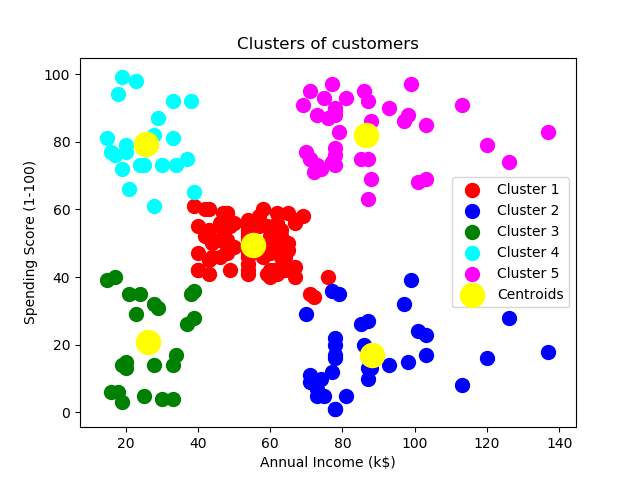
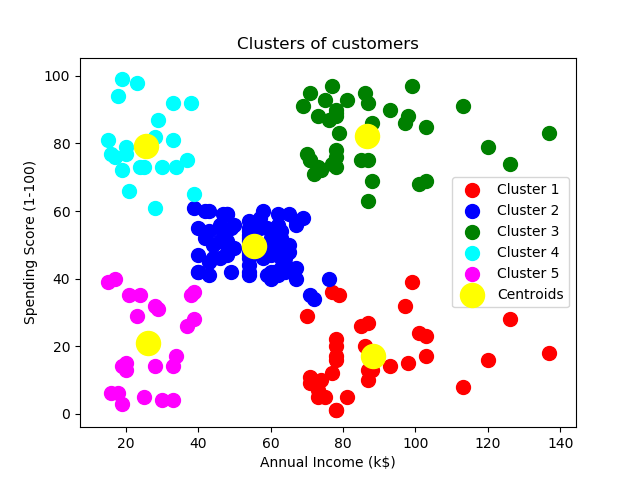
K-Means Clustering

diff --git a/src/4_clustering/1_k_means_clustering/kmeans.py b/src/4_clustering/1_k_means_clustering/kmeans.py
@@ -36,7 +36,7 @@ plt.ylabel('WCSS')
 plt.show()
 
 # Fitting K-Means to the dataset
-kmeans = KMeans(n_clusters = 5, init = 'k-means++', random_state = 42)
+kmeans = KMeans(n_clusters = 5, init = 'k-means++', random_state = 0)
 y_kmeans = kmeans.fit_predict(X)
 print("Fitting K-Means to the dataset:", y_kmeans)
 
